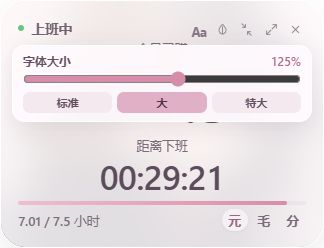
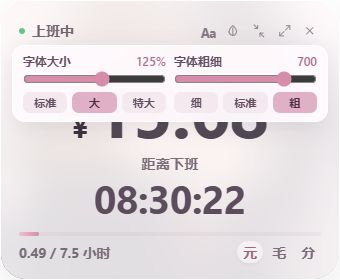
feat: add custom font weight controls to mini window

diff --git a/dist/mini.css b/dist/mini.css
@@ -24,5 +24,15 @@ body[data-compact=true] .mini-font-presets{display:none}
 .mini-font-presets button{flex:1;padding:3px 5px;border-radius:7px;background:#f3e9ef;font-size:11px;font-weight:550}
 .mini-font-presets button[aria-pressed=true]{background:#dfb0c6;color:#4e3043}
 .mini-card .mini-appearance label{font-size:12px;font-weight:550}
+.mini-income,.mini-countdown{font-weight:var(--mini-font-weight,550);transition:font-size .16s ease,font-weight .16s ease}
+.mini-symbol{font-weight:inherit}
+.mini-status,.mini-label,.mini-footer,.mini-units button{font-weight:clamp(300,var(--mini-font-weight,550),650)}
+.mini-appearance{max-height:calc(100% - 54px);overflow-y:auto;overscroll-behavior:contain;scrollbar-width:thin;-webkit-app-region:no-drag}
+.mini-typography-controls{display:grid;grid-template-columns:1fr 1fr;gap:8px}
+body[data-compact=true] .mini-appearance{max-height:calc(100% - 40px)}
+body[data-compact=true] .mini-typography-controls{grid-template-columns:1fr 1fr;gap:8px}
+body[data-compact=true] .mini-card .mini-appearance label{font-size:10px}
+@media(max-height:220px){.mini-font-presets{display:none}.mini-typography-controls{gap:5px}}
+@media(max-width:300px){.mini-font-presets{display:none}}
 .mini-notice{position:absolute;bottom:8px;left:12px;right:12px;padding:4px 8px;text-align:center;border-radius:99px;background:#fff;color:#ad6989;font-size:10px;box-shadow:0 2px 10px #6c436315}
 @media(prefers-reduced-motion:reduce){*,*:before,*:after{transition:none!important;animation:none!important}}

diff --git a/README.md b/README.md
@@ -17,6 +17,7 @@
 - **柔和切换**：页面交接、面板高度、月份、工作日展开和紧凑模式使用连贯过渡，连续点击按最后一次选择收尾。
 - **0–100% 玻璃透明度**：设置页和小窗水滴按钮均可调节，即时预览、自动保存，文字保持清晰。调到最高时，玻璃填充与模糊降到零。
 - **更清晰的小窗字体**：默认数字加大、加粗，点击顶部 **Aa** 可在 80–160% 之间调节，也可选择“标准 / 大 / 特大”。偏好自动保存，字号会根据窗口可用空间限制，避免文字挤出界面。
+- **自定义字体粗细**：同一个 **Aa** 面板提供 300–800 粗细滑块及“细 / 标准 / 粗”预设，金额、倒计时和辅助文字同步变化，实时预览并自动保存。
 - **随时返回**：点右上角的展开图标回到主界面，修改工资和排班。
 
 <p>
@@ -28,7 +29,7 @@
 
 <img src="docs/screenshots/transparency.png" width="300" alt="100% 玻璃透明度效果">
 
-<img src="docs/screenshots/font-size.png" width="324" alt="小窗字体大小设置，支持滑块和快捷预设">
+<img src="docs/screenshots/font-size.png" width="340" alt="小窗字体设置，支持大小、粗细滑块和快捷预设">
 
 <img src="docs/screenshots/small-window.png" width="300" alt="缩小为360×500后的完整界面">
 
@@ -39,7 +40,7 @@
 3. 在“设置”里填好月薪、工作日、上下班与午休，点击“保存设置”。
 4. 点击标题右侧的“小窗模式”图标，主界面会收起，置顶小窗继续计数。
 
-小窗右上角依次是：字体大小（Aa）、玻璃透明度（水滴）、紧凑 / 展开、置顶、返回主界面、关闭。点击金额也能切换元、毛、分。关闭最后一个可见窗口会退出程序；不会自动开机启动。更新时请先关闭旧版窗口，再运行新版。
+小窗右上角依次是：字体设置（Aa，包含大小与粗细）、玻璃透明度（水滴）、紧凑 / 展开、置顶、返回主界面、关闭。点击金额也能切换元、毛、分。关闭最后一个可见窗口会退出程序；不会自动开机启动。更新时请先关闭旧版窗口，再运行新版。
 
 ### 使用网页小窗
 
@@ -57,7 +58,7 @@
 | 倒计时 | 上班 / 下班倒计时、当天工作进度 |
 | 金额显示 | 元、毛、分；每赚 1 分、1 毛、1 元跳动 |
 | 玻璃透明度 | 0–100%，实时预览，主界面与小窗联动，自动保存 |
-| 小窗字体 | 默认数字更大更粗，80–160% 自定义大小，三档预设，自动保存 |
+| 小窗字体 | 80–160% 自定义大小、300–800 自定义粗细，快捷预设、自动保存 |
 | 本月 | 真实月历、每日估算、累计收入曲线、排班预计 |
 | 保存 | 当前浏览器或桌面版本地保存，无账号、无服务器数据库 |
 

diff --git a/RELEASE_NOTES.md b/RELEASE_NOTES.md
@@ -1,4 +1,12 @@
-# v1.3.0 — 小窗大字与自定义字号
+# v1.4.0 — 小窗自定义字体粗细
+
+- Aa 字体面板新增 300–800 粗细滑块，以及“细 / 标准 / 粗”预设。
+- 金额、倒计时与辅助文字实时预览，自动保存，刷新和重新开启小窗后保留。
+- 大小与粗细独立调节，兼容旧版保存的字号、工资、排班和透明度。
+- 精简双列字体面板，小尺寸和紧凑模式下也能直接调节大小与粗细。
+- 网页与 Windows 版同步更新，并更新字体设置截图。
+
+## v1.3.0 — 小窗大字与自定义字号
 
 - 加大并加粗小窗金额和倒计时，强化标签与底部工时的可读性。
 - 顶部新增 Aa 字体按钮，提供 80–160% 自定义滑块和“标准 / 大 / 特大”快捷选择。
